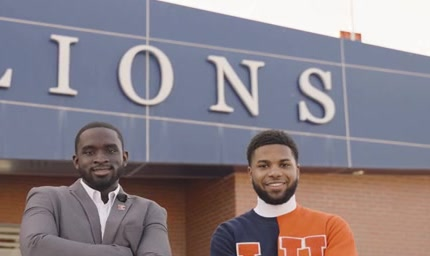
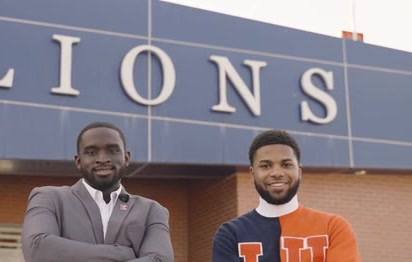
HBCU recenter; dog top sliver; multiple card copy/credit updates; remove Checking tile; drop Bylined editorial
Claude-Session: https://claude.ai/code/session_01Dv9JHbGgPAKQqDxBru1XCq

diff --git a/index.html b/index.html
@@ -358,7 +358,7 @@
           <span class="work-card__media"><img src="assets/work/td-unexpectedly-human.jpg" alt="TD Bank &lsquo;Unexpectedly Human&rsquo; brand homepage — people matter most" loading="lazy" /></span>
           <span class="work-card__body">
             <span class="work-card__tag">Web</span>
-            <h3 class="work-card__title">Brand front door</h3>
+            <h3 class="work-card__title">Brand front door site</h3>
             <p class="work-card__client">TD Bank</p>
             <p class="work-card__teaser">
               What started as a massive collection of About Us pages became an
@@ -401,11 +401,11 @@
           <span class="work-card__media"><img src="assets/work/td-social-rewards.jpg" alt="TD Bank Instagram post: a poodle in a purple tutu with the line &lsquo;Diamond&rsquo;s birthday cost me $0&rsquo;" loading="lazy" /></span>
           <span class="work-card__body">
             <span class="work-card__tag">Social</span>
-            <h3 class="work-card__title">Diamond&rsquo;s birthday cost me $0.</h3>
+            <h3 class="work-card__title">TD credit card rewards carousel</h3>
             <p class="work-card__client">TD Bank</p>
             <p class="work-card__teaser">
-              Carousel post promoting the use of Amazon Shop with Points for TD
-              credit cardholders. Planned and shot our own photography.
+              This organic social post featured our own in-studio photo shoot and
+              promoted redemption of TD credit card rewards at Amazon.com.
             </p>
             <span class="work-card__cue">Learn more →</span>
           </span>
@@ -413,10 +413,10 @@
 
         <template class="work-card__detail">
           <figure class="detail__figure detail__figure--tall"><img src="assets/work/td-social-rewards.jpg" alt="TD Bank Instagram post: a poodle in a purple tutu with the line &lsquo;Diamond&rsquo;s birthday cost me $0&rsquo;" /></figure>
-          <p class="detail__meta"><strong>Copywriting:</strong> Susan Rossman</p>
-          <p class="detail__meta"><strong>CD:</strong> Rob Beatson</p>
+          <p class="detail__meta"><strong>Copywriting:</strong> Swati Prasad, Melissa Haddon, Susan Rossman</p>
+          <p class="detail__meta"><strong>CD:</strong> Susan Rossman, Rob Beatson</p>
           <p class="detail__meta"><strong>Design:</strong> Galina Gonopolsky-Vaisman</p>
-          <p class="detail__meta"><strong>Art Direction:</strong> Gina Comstock &amp; Mark Wills</p>
+          <p class="detail__meta"><strong>Art Direction:</strong> Patrick Skidmore &amp; Mark Wills</p>
           <hr class="detail__rule" />
           <h4 class="detail__label">On-image copy</h4>
           <p class="detail__line">Diamond&rsquo;s birthday cost me $0.</p>
@@ -445,7 +445,7 @@
           <figure class="detail__figure detail__figure--tall"><img src="assets/work/td-poster-credit-card.jpg" alt="TD Bank poster: &lsquo;A credit card for every day. And every now and then.&rsquo;" /></figure>
           <p class="detail__meta"><strong>Copywriting:</strong> Susan Rossman</p>
           <p class="detail__meta"><strong>CD:</strong> Rob Beatson</p>
-          <p class="detail__meta"><strong>Design:</strong> Galina Gonopolsky-Vaisman</p>
+          <p class="detail__meta"><strong>Design:</strong> Rachel Jones</p>
           <p class="detail__meta"><strong>Art Direction:</strong> Gina Comstock &amp; Mark Wills</p>
           <hr class="detail__rule" />
           <h4 class="detail__label">Headline</h4>
@@ -460,11 +460,11 @@
           <span class="work-card__media"><img src="assets/work/td-diversity-inclusion.jpg" alt="TD Bank Diversity &amp; Inclusion web page: &lsquo;A place for everyone&rsquo;" loading="lazy" /></span>
           <span class="work-card__body">
             <span class="work-card__tag">Web</span>
-            <h3 class="work-card__title">A place for everyone</h3>
+            <h3 class="work-card__title">Diversity &amp; Inclusion site</h3>
             <p class="work-card__client">TD Bank</p>
             <p class="work-card__teaser">
-              The Diversity &amp; Inclusion section of TD&rsquo;s brand site — a
-              welcome written in the brand&rsquo;s human voice.
+              Since diversity and inclusion is a core focus at the bank, I helped build
+              and write the original site and worked on the overhaul years later.
             </p>
             <span class="work-card__cue">Learn more →</span>
           </span>
@@ -472,8 +472,8 @@
 
         <template class="work-card__detail">
           <figure class="detail__figure"><img src="assets/work/td-diversity-inclusion.jpg" alt="TD Bank Diversity &amp; Inclusion web page: &lsquo;A place for everyone&rsquo;" /></figure>
-          <p class="detail__meta"><strong>Copywriting:</strong> Susan Rossman</p>
-          <p class="detail__meta"><strong>CD:</strong> Rob Beatson</p>
+          <p class="detail__meta"><strong>Copywriting:</strong> Jivin Misra, Swati Prasad, Susan Rossman</p>
+          <p class="detail__meta"><strong>CD:</strong> Susan Rossman, Rob Beatson</p>
           <p class="detail__meta"><strong>Design:</strong> Galina Gonopolsky-Vaisman</p>
           <p class="detail__meta"><strong>Art Direction:</strong> Gina Comstock &amp; Mark Wills</p>
           <hr class="detail__rule" />
@@ -525,8 +525,8 @@
             <h3 class="work-card__title">Mobile deposit poster</h3>
             <p class="work-card__client">TD Bank</p>
             <p class="work-card__teaser">
-              As part of a global brand refresh, I worked on a collection of posters to
-              promote various TD products and services.
+              This in-branch poster was designed to drive better use of the TD app,
+              specifically the mobile deposit tool.
             </p>
             <span class="work-card__cue">Learn more →</span>
           </span>
@@ -578,37 +578,6 @@
 
       <article class="work-card work-card--visual" data-category="print">
         <button class="work-card__open" aria-haspopup="dialog">
-          <span class="work-card__media work-card__media--fit"><img src="assets/work/td-poster-checking.jpg" alt="TD Bank poster: &lsquo;Checking for every chapter.&rsquo;" loading="lazy" /></span>
-          <span class="work-card__body">
-            <span class="work-card__tag">Print</span>
-            <h3 class="work-card__title">Checking poster</h3>
-            <p class="work-card__client">TD Bank</p>
-            <p class="work-card__teaser">
-              As part of a global brand refresh, I worked on a collection of posters to
-              promote various TD products and services.
-            </p>
-            <span class="work-card__cue">Learn more →</span>
-          </span>
-        </button>
-
-        <template class="work-card__detail">
-          <figure class="detail__figure"><img src="assets/work/td-poster-checking.jpg" alt="TD Bank poster: &lsquo;Checking for every chapter.&rsquo;" /></figure>
-          <p class="detail__meta"><strong>Copywriting:</strong> Susan Rossman</p>
-          <p class="detail__meta"><strong>CD:</strong> Rob Beatson</p>
-          <p class="detail__meta"><strong>Design:</strong> Galina Gonopolsky-Vaisman</p>
-          <p class="detail__meta"><strong>Art Direction:</strong> Gina Comstock &amp; Mark Wills</p>
-          <hr class="detail__rule" />
-          <h4 class="detail__label">Headline</h4>
-          <p class="detail__line">Checking for every chapter.</p>
-          <h4 class="detail__label">Subhead</h4>
-          <p>Checking accounts ready for whatever&rsquo;s next.</p>
-          <h4 class="detail__label">Tagline</h4>
-          <p class="detail__line">More human.</p>
-        </template>
-      </article>
-
-      <article class="work-card work-card--visual" data-category="print">
-        <button class="work-card__open" aria-haspopup="dialog">
           <span class="work-card__media work-card__media--fit"><img src="assets/work/ibx-newmovers.jpg" alt="Independence Blue Cross &lsquo;Welcome to the neighborhood!&rsquo; new-movers direct mail" loading="lazy" /></span>
           <span class="work-card__body">
             <span class="work-card__tag">Print</span>
@@ -643,7 +612,7 @@
           <span class="work-card__body">
             <span class="work-card__tag">Editorial</span>
             <h3 class="work-card__title">Comparing apples to apples: the best ways to enjoy them</h3>
-            <p class="work-card__client">Independence Blue Cross · PhillyVoice · Bylined editorial</p>
+            <p class="work-card__client">Independence Blue Cross · PhillyVoice</p>
             <p class="work-card__teaser">
               A bylined healthy-living feature for a major health insurer — wellness
               advice written to be genuinely read, not skimmed.
@@ -673,9 +642,9 @@
             <h3 class="work-card__title">Aging dependents birthday card</h3>
             <p class="work-card__client">Independence Blue Cross</p>
             <p class="work-card__teaser">
-              With a list of dependents aging off their parents&rsquo; plans when they
-              turn 26, the ask was to create a birthday card to serve as a friendly
-              reminder to look for affordable health plans of their own.
+              Using a list of dependents aging off their parents&rsquo; plans when they
+              turn 26, we created a retro-style birthday card to serve as a friendly
+              reminder to look for a new health plan.
             </p>
             <span class="work-card__cue">Learn more →</span>
           </span>
@@ -700,7 +669,7 @@
           <span class="work-card__body">
             <span class="work-card__tag">Editorial</span>
             <h3 class="work-card__title">Three ways to make your treadmill run more fun</h3>
-            <p class="work-card__client">Independence Blue Cross · PhillyVoice · Bylined editorial</p>
+            <p class="work-card__client">Independence Blue Cross · PhillyVoice</p>
             <p class="work-card__teaser">
               A bylined service piece that turns the dreaded treadmill slog into
               something you might actually look forward to.
@@ -765,7 +734,7 @@
           <span class="work-card__body">
             <span class="work-card__tag">Editorial</span>
             <h3 class="work-card__title">Here&rsquo;s why you should get a cholesterol screening ASAP</h3>
-            <p class="work-card__client">Independence Blue Cross · PhillyVoice · Bylined editorial</p>
+            <p class="work-card__client">Independence Blue Cross · PhillyVoice</p>
             <p class="work-card__teaser">
               A bylined explainer that makes an easy-to-put-off health task feel
               urgent — and genuinely doable.
@@ -793,7 +762,7 @@
           <span class="work-card__body">
             <span class="work-card__tag">Editorial</span>
             <h3 class="work-card__title">How to pack the perfect first-aid kit</h3>
-            <p class="work-card__client">Independence Blue Cross · PhillyVoice · Bylined editorial</p>
+            <p class="work-card__client">Independence Blue Cross · PhillyVoice</p>
             <p class="work-card__teaser">
               A bylined how-to that turns &ldquo;I should really put one together&rdquo;
               into a kit you&rsquo;ll actually pack.
@@ -821,7 +790,7 @@
           <span class="work-card__body">
             <span class="work-card__tag">Editorial</span>
             <h3 class="work-card__title">Achieve a better you with these healthy resources</h3>
-            <p class="work-card__client">Independence Blue Cross · PhillyVoice · Bylined editorial</p>
+            <p class="work-card__client">Independence Blue Cross · PhillyVoice</p>
             <p class="work-card__teaser">
               A bylined guide pointing readers to Independence Blue Cross&rsquo;s
               member health resources — helpful, never salesy.
@@ -849,7 +818,7 @@
           <span class="work-card__body">
             <span class="work-card__tag">Editorial</span>
             <h3 class="work-card__title">Here&rsquo;s how women can prioritize preventive health</h3>
-            <p class="work-card__client">Independence Blue Cross · PhillyVoice · Bylined editorial</p>
+            <p class="work-card__client">Independence Blue Cross · PhillyVoice</p>
             <p class="work-card__teaser">
               A bylined guide to the screenings and habits that help women stay
               ahead of their health.

diff --git a/styles/style.css b/styles/style.css
@@ -210,7 +210,7 @@ main > section { max-width: var(--wrap); margin: 0 auto; padding: var(--section-
 .hero__gallery .hero__feature {
   grid-row: span 2; aspect-ratio: auto; height: 100%; object-fit: cover;
 }
-.hero__gallery img.hero__fill { object-fit: cover; object-position: center top; }
+.hero__gallery img.hero__fill { object-fit: cover; object-position: center 22%; }
 @media (max-width: 820px) {
   .hero { grid-template-columns: 1fr; }
   .hero__gallery { margin-top: .5rem; }
